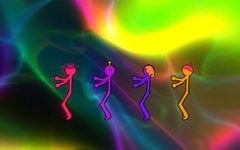
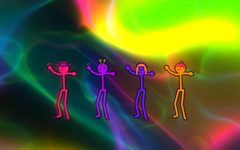
The dancers' heads nod, look up and tip to the side, and keep time with them
Ten ways for a head to keep time (DN_HEADS), each a rule from the count of beats to its turn, its nod and
its tip: a nod on the beat, a slow nod, a sway, side to side, a roll round over four beats, looking up, a
shake twice a beat, a bang, up and down, or still. Some go with the beat, some at half its speed, one at
double, so a head can keep a different time from the feet. A figure takes a new one every eight or sixteen
beats, by its manner.

The nod and the tip move the head on the neck. The shader is told the nod and takes it back out with the
turn when it finds the place on the head, so the face and the hairline go down the head as it nods and up
as it looks up. tools/heads.py takes a nod to check that with.

Claude-Session: https://claude.ai/code/session_01P6VPR9y6rGkpLBNy8xwDmE

diff --git a/js/dance.js b/js/dance.js
@@ -47,7 +47,7 @@ export const DN_TOP=5;       /* the fastest an elbow or a hand is shown going fr
 export const DN_FAINT=0.06;  /* a pulse under this is taken as that much weaker than one that counts: there is nearly no sound */
 export const DN_DRIFT=0.3;   /* how fast a dancing figure moves over the floor toward the place it has chosen, in figure heights a second */
 export const dnU=[new Float32Array(48),new Float32Array(48),new Float32Array(48),new Float32Array(48),new Float32Array(48),new Float32Array(48),new Float32Array(48),new Float32Array(48),new Float32Array(48),new Float32Array(48)]; /* for the shader, four numbers a figure in each (the tenth is its head: the angle it is turned by, and its face, which danceFill packs into the other three): neck and hips; the shoulders; left elbow and hand; right elbow and hand; the hip joints; left knee and ankle; right knee and ankle; the toes; the head's middle, its radius and how brightly the figure shows (0 for none) */
-const A=new Array(MV_N),B=new Array(MV_N),J=new Array(MV_N),flat=new Array(35),SP=[0,0],RM=[0,0,0,0],order=[];
+const A=new Array(MV_N),B=new Array(MV_N),J=new Array(MV_N),flat=new Array(35),SP=[0,0],SP3=[0,0,0],RM=[0,0,0,0],order=[];
 const crowd=[];              /* the figures: {rt, ri, mv, mir, u0, pmv, pmir, pu0, bl, next, tx, tz, p, b, mem, fa, sp, pfa, a, im, ic, idir, iface, itf, iph, iw}: the routine and how far through it; the move, whether it is faced the other way and the beat it began on; the same for the move before, and how far the figure has gone over from it; the beat to change on; how far the figure has travelled from its place; the pose; the body; where the elbows were; which way it is turned for this move and was for the last; how much it is dancing; and for when it is not, whether it walks, the seconds until it chooses again, which way it walks, the way it faces now and wants to, how far through its steps it is and how much it is walking */
 const st={pairC:8,lvl:0.6,lead:-1,per:0.5,pk:0.06,pm:0.06,amp:0,asp:1.78,u:0,du:0,pa:0,sure:0,kick:0,snap:0,en:0,hype:0,jump:-1,kind:0,phrase:0}; /* the strongest pulse of the bass and of the mids in the last few seconds; how much the figures are dancing, 0 to 1 (figures newly set up begin with it, so that changing from one overlay of figures to another does not stop the dance); how wide the picture is for 1 tall (danceFill says); the count of beats and this frame's step of it; how much pulse there has been lately; how sure the beat is; the kick as the figures feel it; how much they dance; how long since a drop; how far through a jump (in beats, -1 for none); which overlay they were set up for; how many times the chorus line has changed its dance */
 let tick=null,bank=null;
@@ -284,6 +284,28 @@ export function pickFace(manner,rnd){
   rnd*=t;for(i=0;i<DN_FACES.length;i++){rnd-=DN_FACES[i].p[m];if(rnd<0)return i;}
   return 0;
 }
+/* What a figure's head does in time with the music, besides looking about: each is a rule from the count of beats u
+   to how far the head is turned (o[0]), nodded forward (o[1], below nothing is looking up) and tipped to its left
+   (o[2]), in radians. Some go with every beat, some with every second or fourth, one twice a beat, so that a head
+   can keep a different time from the feet. A figure keeps one for eight or sixteen beats and goes over to the next
+   gradually; p is its chance for each manner, in DN_MANNERS' order. The nods are down on the beat. */
+export const DN_HEADS=[
+ {name:"still",p:[2,0.5,2],f:function(u,o){o[0]=o[1]=o[2]=0;}},
+ {name:"nod",p:[3,3,1],f:function(u,o){o[0]=0;o[1]=0.2*Math.cos(6.2831853*u);o[2]=0;}},
+ {name:"slow nod",p:[2,1,3],f:function(u,o){o[0]=0;o[1]=0.24*Math.cos(3.1415927*u);o[2]=0;}},
+ {name:"sway",p:[2,1.5,3],f:function(u,o){o[0]=0;o[1]=0.04;o[2]=0.24*Math.sin(3.1415927*u);}}, /* tipped to one side and the other, a beat each */
+ {name:"side to side",p:[1.5,2,2],f:function(u,o){o[0]=0.55*Math.sin(1.5707963*u);o[1]=0.08*Math.cos(6.2831853*u);o[2]=0;}}, /* looking one way for two beats and the other for two, nodding a little */
+ {name:"roll",p:[1,1,3],f:function(u,o){o[0]=0.4*Math.sin(1.5707963*u);o[1]=0.24*Math.cos(1.5707963*u);o[2]=0.14*Math.sin(1.5707963*u);}}, /* round in a circle over four beats: down, to one side, back, to the other */
+ {name:"look up",p:[0.7,1.5,2],f:function(u,o){o[0]=0;o[1]=-0.34+0.08*Math.cos(6.2831853*u);o[2]=0.06*Math.sin(3.1415927*u);}}, /* the head thrown back, still keeping the beat */
+ {name:"shake",p:[0.5,2.5,0.2],f:function(u,o){o[0]=0.2*Math.sin(6.2831853*u);o[1]=0;o[2]=0.1*Math.sin(12.5663706*u);}}, /* twice a beat */
+ {name:"bang",p:[0.3,2,0],f:function(u,o){o[0]=0;o[1]=0.2+0.3*Math.cos(6.2831853*u);o[2]=0;}}, /* hard down on every beat */
+ {name:"up and down",p:[1,1.5,1.5],f:function(u,o){o[0]=0.25*Math.sin(0.7853982*u);o[1]=0.3*Math.sin(1.5707963*u);o[2]=0;}}]; /* up for two beats and down for two, turning slowly */
+export function pickHead(manner,rnd){
+  var i,t=0,m=Math.max(0,DN_MANNERS.indexOf(manner));
+  for(i=0;i<DN_HEADS.length;i++)t+=DN_HEADS[i].p[m];
+  rnd*=t;for(i=0;i<DN_HEADS.length;i++){rnd-=DN_HEADS[i].p[m];if(rnd<0)return i;}
+  return 0;
+}
 export const DN_LOOKS=16;    /* how many kinds of head there are (the shader draws them: headphones, spikes, long hair, a top hat, a cap, a bun, a round mass of curls, a crest, a ponytail, two bunches, a bob, a woolly hat, a wide hat, a party hat, a crown, bobbles on springs) */
 
 /* which of the three kinds of move fits how full the music is (e, 0 to 1 and over) */
@@ -477,7 +499,7 @@ function setUp(kind){
   for(i=0;i<n;i++){
     ch=DN_MANNERS[kind===2?0:(i+c0)%3]; /* a third of a crowd each way, and the dancer alone any of the three */
     r=kind===2&&i?crowd[0].rt:makeRoutine(st.en*ch.en,Math.random,routineStyle());
-    d={ch:ch,pw:-1,pu:0,hy:0,hk:0,hyR:0,hyc:2*Math.random(),pch:0,wv:0,sd:Math.random()<0.5?-1:1,mo:0,bk:0,ex:pickFace(ch,Math.random()),et:3+7*Math.random(),fw:0.34,fc:0.5,fl:0,fh:0,fo:0,rel:[0,0,0,0,0,0,0,0,0,0,0,0],dw:0,go:false,a:st.amp,g:1,ph:0,gp:0,as:1,wx:0,wz:0,vx:0,vz:0,fa:kind===2?0:(Math.random()-0.5)*1.6,sp:0,pfa:0,im:0,ic:3*Math.random(),ix:0,iz:0,iface:0,itf:(Math.random()-0.5)*3,iph:0,iw:0,
+    d={ch:ch,hg:pickHead(ch,Math.random()),hgn:now+4+4*Math.floor(3*Math.random()),hv:[0,0,0],pw:-1,pu:0,hy:0,hk:0,hyR:0,hyc:2*Math.random(),pch:0,wv:0,sd:Math.random()<0.5?-1:1,mo:0,bk:0,ex:pickFace(ch,Math.random()),et:3+7*Math.random(),fw:0.34,fc:0.5,fl:0,fh:0,fo:0,rel:[0,0,0,0,0,0,0,0,0,0,0,0],dw:0,go:false,a:st.amp,g:1,ph:0,gp:0,as:1,wx:0,wz:0,vx:0,vz:0,fa:kind===2?0:(Math.random()-0.5)*1.6,sp:0,pfa:0,im:0,ic:3*Math.random(),ix:0,iz:0,iface:0,itf:(Math.random()-0.5)*3,iph:0,iw:0,
       hf:h[i][0],hz:h[i][1],hc:h[i][2],id:(3*i+l0)%DN_LOOKS+DN_LOOKS*i, /* its number says which head it has (what is left over on dividing by DN_LOOKS: neighbours differ) and gives it a colour of its own */
       rt:r,ri:0,mv:r.mv[0],mir:kind!==2&&r.mir[0],u0:now,pmv:0,pmir:false,pu0:now,bl:1,next:now+4+(kind===3?i%5:0),tx:0,tz:0,p:MV_REST.slice(),b:danceBody(MV_REST,[]),mem:[0,0,0,0,0,0]};
     if(kind===3){d.hf+=(Math.random()-0.5)*0.25;d.hz+=(Math.random()-0.5)*0.5;} /* a crowd does not stand in ranks */
@@ -576,6 +598,12 @@ export function danceStep(dt,bt,mp,level,drop,changed,slow,time,real,on){
     else if(d.go)d.fa-=Math.max(-1.2*du,Math.min(1.2*du,d.fa));else d.fa+=d.sp*du*d.a;
     A[4]+=d.fa;
     groove(A,st.u,d,st.kick,st.snap);
+    /* the head keeps time too (DN_HEADS): a new way of doing so every eight or sixteen beats, gone over to gradually.
+       The nod and the tip go into the pose, so the head itself moves on the neck; the turn is kept for the shader. */
+    if(now>=d.hgn){d.hg=pickHead(d.ch,Math.random());d.hgn=now+(Math.random()<0.5?8:16);}
+    DN_HEADS[d.hg].f(st.u,SP3);w=Math.min(1,dt*4);v=0.6+0.4*Math.min(1.3,d.ch.bob);
+    for(j=0;j<3;j++)d.hv[j]+=(SP3[j]*v-d.hv[j])*w;
+    A[11]+=Math.tan(d.hv[1]);A[10]+=Math.tan(d.hv[2]);
     if(d.bl<1){
       movePose(MOVES[d.pmv],st.u-d.pu0,B);B[2]+=moveBob(MOVES[d.pmv])*beat*d.ch.bob;if(d.pmir)flipPose(B);B[4]+=d.pfa;
       k=ease(d.bl);w=turnTo(B[4],A[4]);for(j=0;j<MV_N;j++)A[j]=B[j]+(A[j]-B[j])*k;A[4]=B[4]+w*k;
@@ -691,10 +719,11 @@ export function danceFill(kind,asp){
     for(j=0;j<16;j++){dnU[j>>1][4*i+2*(j&1)]=k+q[2]*flat[2*j];dnU[j>>1][4*i+2*(j&1)+1]=q[1]+q[2]*flat[2*j+1];}
     /* the head: the angle the chest faces by and the head's own turn on it, which the head is drawn turned by; then the face, two numbers to one
        (the first in 255 steps as the whole part, the second as what is over): how far the mouth is open and the
-       lids are down; the mouth's half width (twice it) and how far its corners turn up; and how far the eyes are arches */
-    j=d.p[4]+d.p[5]+d.p[7]+d.hy;dnU[9][4*i]=j-6.2831853*Math.round(j/6.2831853);
+       lids are down; the mouth's half width (twice it) and how far its corners turn up; and, with how far the head is nodded, how far the eyes are arches */
+    j=d.p[4]+d.p[5]+d.p[7]+d.hy+d.hv[0]*d.a;dnU[9][4*i]=j-6.2831853*Math.round(j/6.2831853);
     dnU[9][4*i+1]=Math.floor(255*Math.max(0,Math.min(1,d.fo)))+Math.min(0.99,Math.max(d.fl,d.bk)*(1-d.fh));
-    dnU[9][4*i+2]=Math.floor(255*Math.max(0,Math.min(1,2*d.fw)))+Math.max(0,Math.min(0.99,d.fc));dnU[9][4*i+3]=d.fh;
+    dnU[9][4*i+2]=Math.floor(255*Math.max(0,Math.min(1,2*d.fw)))+Math.max(0,Math.min(0.99,d.fc));
+    dnU[9][4*i+3]=Math.floor(255*Math.max(0,Math.min(1,Math.atan(d.p[11])/1.8+0.5)))+Math.max(0,Math.min(0.99,d.fh)); /* how far the head is nodded, from the pose, so the face goes down the head as it nods and up as it looks up; and how far the eyes are arches */
     dnU[8][4*i]=k+q[2]*flat[32];dnU[8][4*i+1]=q[1]+q[2]*flat[33];dnU[8][4*i+2]=q[2]*DN_HEAD*flat[34];dnU[8][4*i+3]=d.id+0.5*q[3];
   }
   return n;
@@ -706,5 +735,5 @@ tick=makeBeatClock();bank=makeBeatBank();
 }
 
 /* for the test tools and the browser console: every name in this file; the ones that can change have a getter and a setter */
-export const __dbg={DN_FIT, styleFit, danceFit, DN_MAX, DN_MANNERS, DN_LOOKS, DN_FACES, pickFace, DN_HIP, DN_SPINE, DN_HEAD, DN_NECK, DN_SHO, DN_HIPW, DN_ARM, DN_FORE, DN_CLEAR, DN_BACK, DN_LEG, DN_FOOT, DN_STANCE, DN_NEAR, DN_EYE, DN_FAST, DN_SLOW, DN_SIZE, DN_DEEP, DN_UP, DN_FLOOR, DN_DRIFT, DN_FAINT, DN_RATE, DN_SURE0, DN_SURE1, DN_FAINT2, makeBeatBank, get danceBank(){return bank},set danceBank(v){bank=v}, danceSays, DN_QUICK, DN_TOP, DN_JUMP, DN_STEP, DN_WALK, DN_TURN, dnU, danceBody, danceFlat, makeBeatClock, pickMove, moveTier, makeRoutine, setDanceStyle, get danceStyle(){return danceStyle},
+export const __dbg={DN_HEADS, pickHead, DN_FIT, styleFit, danceFit, DN_MAX, DN_MANNERS, DN_LOOKS, DN_FACES, pickFace, DN_HIP, DN_SPINE, DN_HEAD, DN_NECK, DN_SHO, DN_HIPW, DN_ARM, DN_FORE, DN_CLEAR, DN_BACK, DN_LEG, DN_FOOT, DN_STANCE, DN_NEAR, DN_EYE, DN_FAST, DN_SLOW, DN_SIZE, DN_DEEP, DN_UP, DN_FLOOR, DN_DRIFT, DN_FAINT, DN_RATE, DN_SURE0, DN_SURE1, DN_FAINT2, makeBeatBank, get danceBank(){return bank},set danceBank(v){bank=v}, danceSays, DN_QUICK, DN_TOP, DN_JUMP, DN_STEP, DN_WALK, DN_TURN, dnU, danceBody, danceFlat, makeBeatClock, pickMove, moveTier, makeRoutine, setDanceStyle, get danceStyle(){return danceStyle},
   danceKind, danceStep, stepDance, danceSpots, danceFill, crowd, danceSt:st, get danceTick(){return tick},set danceTick(v){tick=v}};

diff --git a/js/shaders.js b/js/shaders.js
@@ -531,8 +531,8 @@ VR_GLSL,
    their angle round the head brings them, sn of the way across for one at the front and cn for one at the side.
    dh is the distance to what is seen whole; dq to what is behind the head, and so seen only outside its disc. */
 "            vec4 fc=uD9[i];float sty=mod(id,16.0);float aw=1.2/hpx;float tl=0.085*min(wd,3.0);float rh=length(hl);float ah=atan(hl.x,hl.y);float dh=1e5,dq=1e5;",
-"            float sn=sin(fc.x),cn=cos(fc.x);",
-"            vec2 hp=hl/max(rh,1.0);float hz=sqrt(max(0.0,1.0-dot(hp,hp)));vec3 H=vec3(hp.x*cn-hz*sn,hp.y,hp.x*sn+hz*cn);", /* the place on the head that this place in the picture shows; beyond the head's edge, the place on its edge nearest */
+"            float sn=sin(fc.x),cn=cos(fc.x);float pit=(floor(fc.w)/255.0-0.5)*1.8;float sp=sin(pit),cp=cos(pit);", /* pit: how far the head is nodded forward (below nothing, looking up) */
+"            vec2 hp=hl/max(rh,1.0);float hz=sqrt(max(0.0,1.0-dot(hp,hp)));vec3 H=vec3(hp.x*cn-hz*sn,hp.y,hp.x*sn+hz*cn);H=vec3(H.x,H.y*cp+H.z*sp,H.z*cp-H.y*sp);", /* the place on the head that this place in the picture shows, the head's turn and then its nod taken back out; beyond the head's edge, the place on its edge nearest */
 "            float off=rh<1.1?tl:1e5;", /* what is added to a part of the head that hair covers, so that it is lit just where it is covered: hair lies a tenth of the head thick, so it shows that far past the head's edge and no further */
 "            float scalp=0.15+0.5*H.z-H.y+off;", /* hair over the scalp: above a flat cut through the head that slopes from the brow, clear of the eyes, down behind the ears to the nape */
 "            float win=max(abs(H.x)-0.72,-H.z);", /* the opening that hair leaves for the face: below nothing within it, however the head is turned */
@@ -597,11 +597,11 @@ VR_GLSL,
 "            ln=ln*(1.0-he)+hb*fract(hd.w)*2.0;dk=max(dk,he);",
 "            if(hb>0.5)rr=0.15+fract(id*0.382+0.31)*1.08;", /* in another of the palette's colours than the body */
 "            if(rh<0.97&&hb<0.5){", /* the face: two eyes and a mouth, dark in the lit head, at their own places on the ball, so they go across and narrow as the head turns, and are gone when it is turned away */
-"              float fz=sqrt(1.0-rh*rh);vec3 F=vec3(hl.x*cn-fz*sn,hl.y,hl.x*sn+fz*cn);",
+"              float fz=sqrt(1.0-rh*rh);vec3 F=vec3(hl.x*cn-fz*sn,hl.y,hl.x*sn+fz*cn);F=vec3(F.x,F.y*cp+F.z*sp,F.z*cp-F.y*sp);",
 "              if(F.z>0.1){",
 "                vec2 fl=F.xy;float mo=floor(fc.y)/255.0,lid=fract(fc.y),mw=max(0.05,floor(fc.z)/510.0),cv=fract(fc.z);",
 "                vec2 ey=vec2(abs(fl.x)-0.36,fl.y-0.18);",
-"                float de=mix(length(vec2(ey.x,ey.y/(1.0-0.8*lid)))-0.1,max(abs(length(ey+vec2(0.0,0.05))-0.14)-0.035,-0.03-ey.y),fc.w);", /* an eye is a dot, which its lid flattens; or, shut and smiling, an arch */
+"                float de=mix(length(vec2(ey.x,ey.y/(1.0-0.8*lid)))-0.1,max(abs(length(ey+vec2(0.0,0.05))-0.14)-0.035,-0.03-ey.y),fract(fc.w));", /* an eye is a dot, which its lid flattens; or, shut and smiling, an arch */
 "                float mh=0.045+0.17*mo;float dm=length(vec2(fl.x*mh/mw,fl.y+0.36-cv*fl.x*fl.x))-mh;", /* the mouth: so wide, so far open, its corners so far turned up */
 "                ln*=1.0-0.9*max(1.0-smoothstep(-aw,aw,de),1.0-smoothstep(-aw,aw,dm))*smoothstep(0.1,0.35,F.z)*df;",
 "              }",

diff --git a/tools/heads.py b/tools/heads.py
@@ -3,6 +3,7 @@
 
   python3 tools/heads.py out          # writes out-0.png and out-8.png (eight heads each), upright
   python3 tools/heads.py out 0.35     # the same with every head leant on its neck by 0.35 radians
+  python3 tools/heads.py out 0 0.4    # nodded forward by 0.4 radians; -0.4 looks up
 
 Rows are the heads, columns the turns 0, 45, ... 315 degrees: 0 faces the viewer, at 90 the face is to the picture's
 right, at 180 the back of the head is seen. Look for: the face and the hair's edge keeping their places against
@@ -14,14 +15,15 @@ from harness import chrome
 here = os.path.dirname(os.path.abspath(__file__))
 out = sys.argv[1] if len(sys.argv) > 1 else "heads"
 tilt = sys.argv[2] if len(sys.argv) > 2 else "0"
+nod = sys.argv[3] if len(sys.argv) > 3 else "0"
 for part in (0, 8):
     with tempfile.TemporaryDirectory() as d:
         page = os.path.join(d, "heads.html")
-        subprocess.run(["node", os.path.join(here, "heads.mjs"), page, tilt, str(part), "8"], check=True)
+        subprocess.run(["node", os.path.join(here, "heads.mjs"), page, tilt, str(part), "8", nod], check=True, timeout=60)
         png = f"{out}-{part}.png"
         subprocess.run([chrome(), "--headless", "--no-sandbox", "--use-gl=angle", "--use-angle=swiftshader", "--enable-unsafe-swiftshader",
                         "--hide-scrollbars", f"--screenshot={os.path.abspath(png)}", "--window-size=1200,1400", "file://" + page],
-                       check=True, capture_output=True)
+                       check=True, capture_output=True, timeout=120)
         try:  # some Chrome builds count the window's frame in its size, so the window is asked for taller and the picture cut back
             from PIL import Image
             Image.open(png).crop((0, 0, 1200, 1200)).save(png)

diff --git a/CLAUDE.md b/CLAUDE.md
@@ -85,7 +85,7 @@ The Python tools need `google-chrome` or `chromium` on PATH, or a Chromium that 
 - **Every sampler in the scene shader must be given a texture unit every frame.** One left at the default, unit 0, can name the picture being drawn into, and the chip then refuses the draw.
 - **Hold still averages frames of a scene that must not change.** While `stillN` is not zero the scene shader gets no sound and no clock runs. Anything new that changes the scene from frame to frame must either stop while `still` is true or be added to what `stillAim` compares.
 - **User look input goes through `userLook(dx, dy)`**, not straight into `lookX`/`lookY`. That is how the autopilot knows to stand back while the user steers. The autopilot itself still writes `lookX`/`lookY` directly.
-- **The dancers' joints are worked out in JavaScript (`js/dance.js`) and only drawn by the trails shader.** A move (`js/moves.js`) is a list of poses at given beats; a pose is 28 numbers that give hands and feet as places, sides measured outward, and `danceBody` makes a body in space from it with every bone keeping its length. A move with no `hold` flows through its keys without stopping; give it a `hold` only if it should stop on the beat. The knees' give comes from the bass itself (`st.kick`), not from the move. A new move must begin at beat 0, take 1, 2, 4, 8 or 16 beats, name its poses only by what differs from standing, and show from in front: a limb moved straight toward the viewer hardly shows, so send it to the side as well. Look at it dancing in `tools/moves.html` before keeping it, at a slow and a fast speed and from the side: the page marks a move whose fastest joint goes over six figure heights a second. A figure's pose is only ever gone toward (the end of the loop in `danceStep`), never set, a move is never changed while the last change is still crossing over, and elbows swing through `mem`: `tools/unit.mjs` holds every joint under seven figure heights a second. The figures stand on a floor that goes away from the viewer (`place`): nothing may come nearer than its front edge, and `danceFill` hands them to the shader furthest first, which draws each over the ones before. The shader's arrays and loop are written for `DN_MAX` (12) figures, 120 uniform vectors (ten to a figure: the tenth is the face); change the three together. A figure keeps a manner (`DN_MANNERS`: steady, lively, or smooth, which glides and spins) for as long as it is on the floor, and its number (`d.id`) tells the shader which of `DN_LOOKS` heads it has; the head's hair, hat and face are drawn only by the shader, in the head's own frame, and fade out on a head a few dots across. Nothing on a head is placed on the picture: what lies on the head (hair over the scalp, a fringe, a band, the face) is said in the head's own frame (`H` for the shell of hair, `F` for the face: across, up, toward the way it looks), and what stands off it is placed by the sine and cosine of `uD9.x` and put in `dq` while it is behind the head. After changing a head, run `python3 tools/heads.py out` and `python3 tools/heads.py out 0.4` and look at every head at all eight turns, large: the face and the hair's edge must keep their places against each other, nothing on the far side may show through the head, and nothing may lie over the eyes. Do not judge a head from a render of the whole app: it is too small there, and a new face is a row in `DN_FACES`, eased to number by number, never switched. Journey chooses the chorus line seldom (`J_SELDOM` in `js/journey.js`). A figure's head has a turn of its own (`d.hy`, eased, never set); two of a crowd may be partners (`d.pw`, each the other's, the later in the list following the earlier in `nextMove`); and a new kind of dancing in `MV_STYLES` needs its row in `DN_FIT`, which `tools/unit.mjs` checks. The figures dance only while the beat is `sure`: four clocks (`makeBeatBank`), each on one part of the spectrum's onsets from `listen.js`, because the beat is as often in the hi-hats as in the bass; do not go back to judging the bass's hits one at a time. Any change to the clock must keep the rhythm tests in `tools/unit.mjs`; otherwise they wait or walk (`idle`), and anything new they do without a beat belongs there, turning no faster than `DN_TURN`. The moves are chosen by chance, so the figures stop under Hold still and are left out while `lapOn()`.
+- **The dancers' joints are worked out in JavaScript (`js/dance.js`) and only drawn by the trails shader.** A move (`js/moves.js`) is a list of poses at given beats; a pose is 28 numbers that give hands and feet as places, sides measured outward, and `danceBody` makes a body in space from it with every bone keeping its length. A move with no `hold` flows through its keys without stopping; give it a `hold` only if it should stop on the beat. The knees' give comes from the bass itself (`st.kick`), not from the move. A new move must begin at beat 0, take 1, 2, 4, 8 or 16 beats, name its poses only by what differs from standing, and show from in front: a limb moved straight toward the viewer hardly shows, so send it to the side as well. Look at it dancing in `tools/moves.html` before keeping it, at a slow and a fast speed and from the side: the page marks a move whose fastest joint goes over six figure heights a second. A figure's pose is only ever gone toward (the end of the loop in `danceStep`), never set, a move is never changed while the last change is still crossing over, and elbows swing through `mem`: `tools/unit.mjs` holds every joint under seven figure heights a second. The figures stand on a floor that goes away from the viewer (`place`): nothing may come nearer than its front edge, and `danceFill` hands them to the shader furthest first, which draws each over the ones before. The shader's arrays and loop are written for `DN_MAX` (12) figures, 120 uniform vectors (ten to a figure: the tenth is the face); change the three together. A figure keeps a manner (`DN_MANNERS`: steady, lively, or smooth, which glides and spins) for as long as it is on the floor, and its number (`d.id`) tells the shader which of `DN_LOOKS` heads it has; the head's hair, hat and face are drawn only by the shader, in the head's own frame, and fade out on a head a few dots across. Nothing on a head is placed on the picture: what lies on the head (hair over the scalp, a fringe, a band, the face) is said in the head's own frame (`H` for the shell of hair, `F` for the face: across, up, toward the way it looks), and what stands off it is placed by the sine and cosine of `uD9.x` and put in `dq` while it is behind the head. After changing a head, run `python3 tools/heads.py out` and `python3 tools/heads.py out 0.4` and look at every head at all eight turns, large: the face and the hair's edge must keep their places against each other, nothing on the far side may show through the head, and nothing may lie over the eyes. Do not judge a head from a render of the whole app: it is too small there, and a new face is a row in `DN_FACES`, eased to number by number, never switched. Journey chooses the chorus line seldom (`J_SELDOM` in `js/journey.js`). A figure's head has a turn of its own (`d.hy`, eased, never set) and keeps time by a rule in `DN_HEADS` (turn, nod, tip from the count of beats: a new one must come round in sixteen beats and stay under what `tools/unit.mjs` allows); two of a crowd may be partners (`d.pw`, each the other's, the later in the list following the earlier in `nextMove`); and a new kind of dancing in `MV_STYLES` needs its row in `DN_FIT`, which `tools/unit.mjs` checks. The figures dance only while the beat is `sure`: four clocks (`makeBeatBank`), each on one part of the spectrum's onsets from `listen.js`, because the beat is as often in the hi-hats as in the bass; do not go back to judging the bass's hits one at a time. Any change to the clock must keep the rhythm tests in `tools/unit.mjs`; otherwise they wait or walk (`idle`), and anything new they do without a beat belongs there, turning no faster than `DN_TURN`. The moves are chosen by chance, so the figures stop under Hold still and are left out while `lapOn()`.
 - **The eye (`js/eye.js`) is the last pass, over the finished picture, and nothing is drawn after it or over it.** The world, the land, the overlays and the filters show only in its pupil: a new effect belongs in the passes before it, never in `FS_EYE`. What changes in it over time comes from `clock` and the frame's sound; the blink, the gaze and the pupil are stepped in `stepEye`, which stops under Hold still and holds them fixed while `lapOn()`. Noise that goes round the iris or the white must be `vn`/`fbm` with a whole number for `per`, or a seam shows on the left. Beyond the lids is a surface of pores, not skin (`surf`): a pore with its rim must stay within 0.62 of a square of its middle, and must never have a radius of nothing, or the squares' edges show; the pores' clock is `ey.por`, stepped with the rest. The blink's times are in `BLINK_*` and `tools/unit.mjs` holds how fast the lid may move: do not make it quicker. How near it is seen from is `eyeRadius`, and at the last step the iris must cover every corner of the picture (`tools/unit.mjs` checks wide and tall); the pupil as drawn goes through `eyePupil`. It is flat on the screen, so it is off in the VR viewer. Only `blinkShut` changes the world from it, and only when nothing else has the world in hand.
 - **A panel that scrolls keeps its title and Close button at the top** (`position:sticky` on `.advHead` and `.panHead`). A new panel must do the same.
 - **A control belongs under a heading in the panel** (`#panel` in `index.html`, a plain child of a `.secBody`), not in the bar: the bar is for what is used all the time. A screen that is a task of its own (Compose) must hold every control that task needs, shown only when it can be used, so that nobody has to go elsewhere to find the next step. A chooser shows its things by name (`pickSort`).

diff --git a/docs/ARCHITECTURE.md b/docs/ARCHITECTURE.md
@@ -539,6 +539,7 @@ Drawn into the feedback buffer after the composite, so the motion smears them. S
 - *Manners.* A figure keeps one of three for as long as it is on the floor (`DN_MANNERS`; a third of a crowd each, the dancer alone any, the chorus line all steady, since they dance as one). **Steady** is the figure as it always was. **Lively** takes the music to be 1.4 times as full as it is, so chooses livelier moves, sways and hits with its arms a quarter to a third more, gives half as much again to the beat with its knees and head, and follows a move more sharply. **Smooth** takes the music as 0.72 as full, hits half as hard, hardly bobs, rounds every corner of a move (its pose follows at 8 a second, not 13), sweeps its hands in slow wide curves, moves over the floor at 2.2 times `DN_DRIFT` and chooses a new place as soon as it reaches one, so it never stops gliding, and spins on the spot through every move at 0.3 to 0.6 radians a beat, the same way for most of them. All of it is inside the room a figure already had, and `tools/unit.mjs` still holds every joint under seven heights a second.
 - *Heads.* Each figure's number (`d.id`) is its place in the crowd times 16 plus which of the sixteen heads it has (`DN_LOOKS`), neighbours differing: headphones, spikes, long hair, a top hat, a cap whose peak points the way the head is turned, a bun, a round mass of curls, a crest, a ponytail, two bunches, a bob, a woolly hat with a bobble, a wide hat, a party hat, a crown, and two bobbles on springs. The shader takes the number's remainder on dividing by 16 and draws the head's details in the head's own frame (across, and up along the line from the neck, in head radii), in lines a quarter as wide as the body's and in another of the palette's colours. The hair, the hats and the face turn with the head as one, because all of them are placed on the head and none on the picture. `uD9.x` is the angle the chest faces by (0 toward the viewer). The head is a ball: for what lies on it, the place in the picture is taken back to the place on the ball it shows (`z = sqrt(1 - x^2 - y^2)`) and turned back by the angle, giving `F` and `H`, the place on the head itself (across, up, toward the way the face looks); past the head's edge `H` is the nearest place on the edge, and hair is taken to lie a tenth of the head thick, so it shows that far past the edge. Hair and face use the same ball: a shell of hair larger than the head was tried, and from a three-quarter view it lay over the far eye. Hair that covers the head says which part it covers in the head's own terms: `scalp` (above a flat cut that slopes from the brow, clear of the eyes, down behind the ears to the nape) under the spikes, the bun, the ponytail and the bunches; all but the face's opening (`win`: within 0.72 across on the front half, below the fringe) for the bob, the long hair and the curls; a strip down the middle for the crest; `band` (within 0.09 of the cut through both ears, over the top) for the headphones and the bobbles. The long hair also hangs as a curtain from the back half of the head, as wide as that half is seen to be: behind the body from in front but for a lock before each near shoulder, to one side from the side, right across from behind. The curls are a ball of hair about the head, set back, open only at the face. A part on the far side of the head is drawn only past the head's edge, and the headphones' far cup not at all. The eyes and mouth sit at their own places on `F` and fade as `F.z` nears nothing, so they go across and narrow exactly as the hair's edge does. (They were first drawn flat with the face slid across by 0.7 of the sine while a fringe or a bob stayed where it was: the face moved under the hair.) Parts that stand off the head are put where their angle round it brings them, the sine of that angle across: the cap is a filled crown with a flat oval peak joined to its lower edge, a band across the brow from in front, long from the side and hidden from behind; a ponytail hangs behind and is seen whole from the back; a bob's hair comes right down the back of the head; a party hat sits to one side and goes round; a crown's points go round; the two bobbles cross; the headphones' cups come to the middle as the head turns side on and their band narrows to a line; the six strands of long hair go round from the sides to the back, so a figure seen from behind has them over its head; the bun is behind the top of the head and the top hat has a buckle at the front; the crest is a few spikes close together from in front and a fan from the side; spikes and curls go round. A part behind the head is drawn only outside its disc (`dq`). A head turned toward the viewer has two eyes and a mouth, dark in the lit head, moved across and narrowed as it turns. **Faces** (`DN_FACES`): smile, grin, bliss (eyes shut and smiling: arches, not dots), pursed (a small round mouth), cool (lids half down, mouth nearly straight) and lost (eyes shut, lips pursed). A face is five numbers: the mouth's half width, how far its corners turn up, how far it is open, how far the lids are down, how far the eyes are arches. A figure takes a new face every four to twelve seconds (`pickFace`: lively figures grin most, smooth ones shut their eyes most) and goes over to it in about a third of a second, number by number, so nothing jumps. `danceFill` packs them two to a number for the shader (the first in 255 steps as the whole part, the second as what is over). The mouth opens with the kick, more on a lively figure and hardly at all when pursed; the eyes shut for a moment every five seconds or so. On a head under about six dots across the details fade out, and under two and a half they are not worked out at all, so the far figures of a crowd cost what they did. Per dot it is one test against the head's place and, near a head, one head's worth of arithmetic: little beside the sixteen lines of the body.
 - *The head's own turn* (`d.hy`). The head is drawn turned by the way the chest faces plus `d.hy`, which each figure eases toward a choice it makes again every 1.5 to 5.5 seconds: straight ahead (half the time), up to 0.7 radians to one side, or at whoever is nearest on the floor (at most 1.1 round). A figure with a partner looks at the partner. Added to that, the head lags a body that is turning by 0.15 seconds' worth of the turn, at most half a radian, so a spinning figure's face comes round after its body. It is only a number for the shader: no joint moves.
+- *The head keeps time* (`DN_HEADS`). Besides looking about, a head moves to the beat in one of ten ways, each a rule from the count of beats to how far it is turned, nodded (forward, or back to look up) and tipped to one side: still; a nod down on every beat; a slow nod every second beat; a sway, tipped one way and the other a beat each; side to side, looking one way for two beats and the other for two; a roll round in a circle over four beats; looking up, the head thrown back and still keeping the beat; a shake twice a beat; a bang hard down on every beat; and up for two beats and down for two. So a head can keep the beat, half of it or double it while the feet keep their own. A figure takes a new way every eight or sixteen beats by its manner (`pickHead`: lively figures nod, shake and bang, smooth ones sway, roll and look up) and eases over to it. The nod and the tip are added to the pose (`hn`, `ht`), so the head itself moves on the neck; the turn goes to the shader with `d.hy`. The shader is also told how far the head is nodded, from the pose (so a move's own nod counts, the headbang's among them), and takes it back out with the turn when it finds the place on the head: the face and the hairline go down the head as it nods and up as it looks up. Hats and parts that stand off the head (peak, tail, cups) do not nod with it.
 - *Partners.* In the crowd, every 10 to 24 seconds while they dance, one figure and the nearest other within 1.7 heights (neither already paired) dance together for 8, 12 or 16 beats. Both come round to face each other at 1.2 radians a beat, and from the next move the second (the later in the list) does the first's move turned the other way, as in a mirror (`nextMove`), changing when the first changes. When it is over each takes a new routine of its own.
 - *The kind of dancing follows the music.* `DN_FIT` gives each of the nine kinds the speed it likes (-1 for a beat of about 100 a minute and under, 1 for 150 and over) and how full it likes the music; `styleFit` turns the beat's length and the level into a chance from 0.3 to about 3. A figure left free (Dance style any) keeps two routines in three to a kind chosen by that chance, so a fast full passage brings out rave and breaking, and a slow quiet one groove and the slower world dances. Where Journey chooses the Dance style, it weighs the kinds the same way (`danceFit` in `jPick`), on top of the user's likes. With no sure beat every kind has an even chance.
 - *Journey and the chorus line.* `J_SELDOM` in `js/journey.js` multiplies the chorus line's chance by 0.15 wherever Journey chooses an overlay, on top of the user's own likes: from either other overlay of dancers it is taken about one time in eight.

diff --git a/README.md b/README.md
@@ -186,7 +186,7 @@ After those come **Journey**, **Hold still**, **Compose** (on a computer) and **
 |---|---|
 | Feedback motion | none, Melt, Vortex, Tunnel, Implode, Ripple, Drift. Each one smears the previous frame in a different way. |
 | Filter | none, Echo, Neon, Solar, Negative, Poster, Mosaic, Liquid, Prism, Quad, Tiles, Bulge, Twirl, Thermal, CRT, Halftone, Contour, Noir, Comic, Two-tone, Tape, Streaks, Emboss, Glass, Airbrush. The six before Airbrush were made with video in mind. **Airbrush** takes nearly all the colour out and leaves the light: cool in the shadows, warm in the highlights, as if the picture were sprayed in greys. |
-| Overlay | none, Ring, Scope, Spectrum, Spokes, Rings, Spiral, Orbit. These draw the sound on top of the picture. **Dancer**, **Chorus line** and **Dance floor** are stick figures that dance to the music: one, who goes all over a floor that runs away from you, growing smaller with distance and never larger than at its front edge; four doing the same dance together; a crowd of eight to twelve standing at different depths, the further ones smaller and drawn behind the nearer, each with a dance of its own. Every figure has a manner it keeps (steady; lively, which picks the wilder moves and hits them hard; or smooth, which glides about the floor and spins) and a head of its own, one of sixteen: headphones, spikes, long hair, a top hat, a cap, a bun, curls, a crest, a ponytail, bunches, a bob, a woolly hat, a wide hat, a party hat, a crown or bobbles on springs, drawn in thin lines, which turns with the head as the figure turns. Their faces change every few seconds: a smile, a grin, eyes shut and smiling, pursed lips, half-closed lids, or eyes shut and lost in the music; the eyes blink and the mouth opens on the beat. Each head also turns on its own: it looks about, looks at whoever is nearest, and comes round a little after the body in a spin. In the crowd, two neighbours now and then turn to each other and dance the same move as in a mirror for a few bars. The kind of dancing follows the music: fast, full passages bring out rave and breaking, slow quiet ones the groove. Journey chooses the chorus line far less often than the other two. They are drawn as a person's body would look in a suit of lines, with shoulders, hips, hands and feet, and have 268 named moves in nine kinds of dancing (groove, disco, sixties, hip hop, party, world, rave, breaking and Indian), among them the step touch, the twist, the mashed potato, the hand jive, the macarena, Y M C A, the time warp, the electric slide, the moonwalk, the running man, the sprinkler, the floss, the dab, the can-can and a turn of Riverdance; for a rave, the T-step, cutting shapes, big box little box, hakken, glowsticks and poi; from breaking, top rock steps, the six step, the coffee grinder, CCs, sweeps and freezes; and from India, bhangra, garba and dandiya, the thumka, a kathak spin, and bharatanatyam's half-sitting steps. They keep time with the beat, choose livelier moves as the music fills, dance only to a steady beat, which they find in whichever part of the sound has it (the kick drum, the claps or the hi-hats): while the music is quiet, when there is none, or when there is sound without a beat (someone talking before a song starts, say) they stand about shifting their feet or walk to and fro, and go back to their places when the beat comes, face any way and not only toward you, give at the knees on each kick of the bass, dance a routine of three to ten moves that go together and come back to it before making another, take a new routine when the sound changes greatly, sway at the hips, shift their weight and shuffle their feet whatever the move, hit with their arms on the kick, never do a move quite the same way twice, move about the floor and turn slowly on the spot as they dance, so that they are seen from every side (the moonwalk glides backward), and all jump when a drop lands. With **Tap tempo** they dance to your taps. With **Stats** on, a line says what they hear: how much they are dancing, how sure the beat is, and whether there is sound. They stay as they are in **Hold still** and are not drawn while a loop is flown. |
+| Overlay | none, Ring, Scope, Spectrum, Spokes, Rings, Spiral, Orbit. These draw the sound on top of the picture. **Dancer**, **Chorus line** and **Dance floor** are stick figures that dance to the music: one, who goes all over a floor that runs away from you, growing smaller with distance and never larger than at its front edge; four doing the same dance together; a crowd of eight to twelve standing at different depths, the further ones smaller and drawn behind the nearer, each with a dance of its own. Every figure has a manner it keeps (steady; lively, which picks the wilder moves and hits them hard; or smooth, which glides about the floor and spins) and a head of its own, one of sixteen: headphones, spikes, long hair, a top hat, a cap, a bun, curls, a crest, a ponytail, bunches, a bob, a woolly hat, a wide hat, a party hat, a crown or bobbles on springs, drawn in thin lines, which turns with the head as the figure turns. Their faces change every few seconds: a smile, a grin, eyes shut and smiling, pursed lips, half-closed lids, or eyes shut and lost in the music; the eyes blink and the mouth opens on the beat. Each head also moves on its own: it looks about, looks at whoever is nearest, comes round a little after the body in a spin, and keeps time by nodding, looking up, tipping from side to side, rolling round or shaking, some on the beat, some at half its speed and some at double. In the crowd, two neighbours now and then turn to each other and dance the same move as in a mirror for a few bars. The kind of dancing follows the music: fast, full passages bring out rave and breaking, slow quiet ones the groove. Journey chooses the chorus line far less often than the other two. They are drawn as a person's body would look in a suit of lines, with shoulders, hips, hands and feet, and have 268 named moves in nine kinds of dancing (groove, disco, sixties, hip hop, party, world, rave, breaking and Indian), among them the step touch, the twist, the mashed potato, the hand jive, the macarena, Y M C A, the time warp, the electric slide, the moonwalk, the running man, the sprinkler, the floss, the dab, the can-can and a turn of Riverdance; for a rave, the T-step, cutting shapes, big box little box, hakken, glowsticks and poi; from breaking, top rock steps, the six step, the coffee grinder, CCs, sweeps and freezes; and from India, bhangra, garba and dandiya, the thumka, a kathak spin, and bharatanatyam's half-sitting steps. They keep time with the beat, choose livelier moves as the music fills, dance only to a steady beat, which they find in whichever part of the sound has it (the kick drum, the claps or the hi-hats): while the music is quiet, when there is none, or when there is sound without a beat (someone talking before a song starts, say) they stand about shifting their feet or walk to and fro, and go back to their places when the beat comes, face any way and not only toward you, give at the knees on each kick of the bass, dance a routine of three to ten moves that go together and come back to it before making another, take a new routine when the sound changes greatly, sway at the hips, shift their weight and shuffle their feet whatever the move, hit with their arms on the kick, never do a move quite the same way twice, move about the floor and turn slowly on the spot as they dance, so that they are seen from every side (the moonwalk glides backward), and all jump when a drop lands. With **Tap tempo** they dance to your taps. With **Stats** on, a line says what they hear: how much they are dancing, how sure the beat is, and whether there is sound. They stay as they are in **Hold still** and are not drawn while a loop is flown. |
 | Overlay strength | 15%, 30%, 50%, 75% or 100%. |
 | Mirrors | Opens a chooser: off, 3, 4, 6, 8 or 12 segments. The M key steps through them. |
 | FX | Opens a chooser: glow, trails or clean. Sets the base amount of trail and bloom. |
